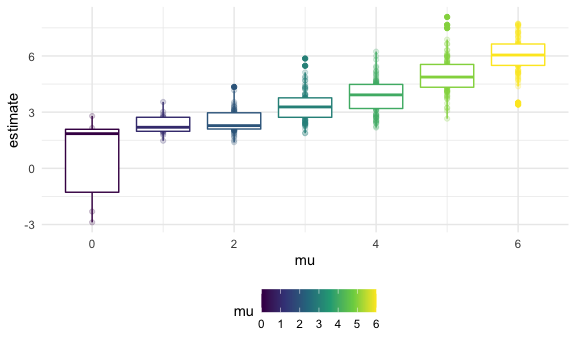
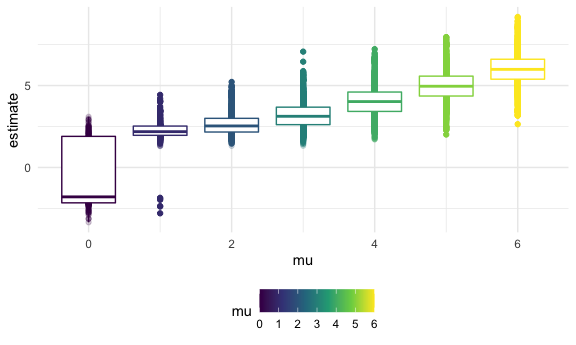
5000! times 7

diff --git a/p8105_hw_jyc2171.md b/p8105_hw_jyc2171.md
@@ -505,7 +505,7 @@ sim_results =
 sim_results = 
   tibble(mu = 0:6) %>% 
   mutate(
-    output_lists = map(.x = mu, ~rerun(100, t_test(mu = .x))),
+    output_lists = map(.x = mu, ~rerun(5000, t_test(mu = .x))),
     estimate_dfs = map(output_lists, bind_rows)
   ) %>% 
   select(-output_lists) %>% 
